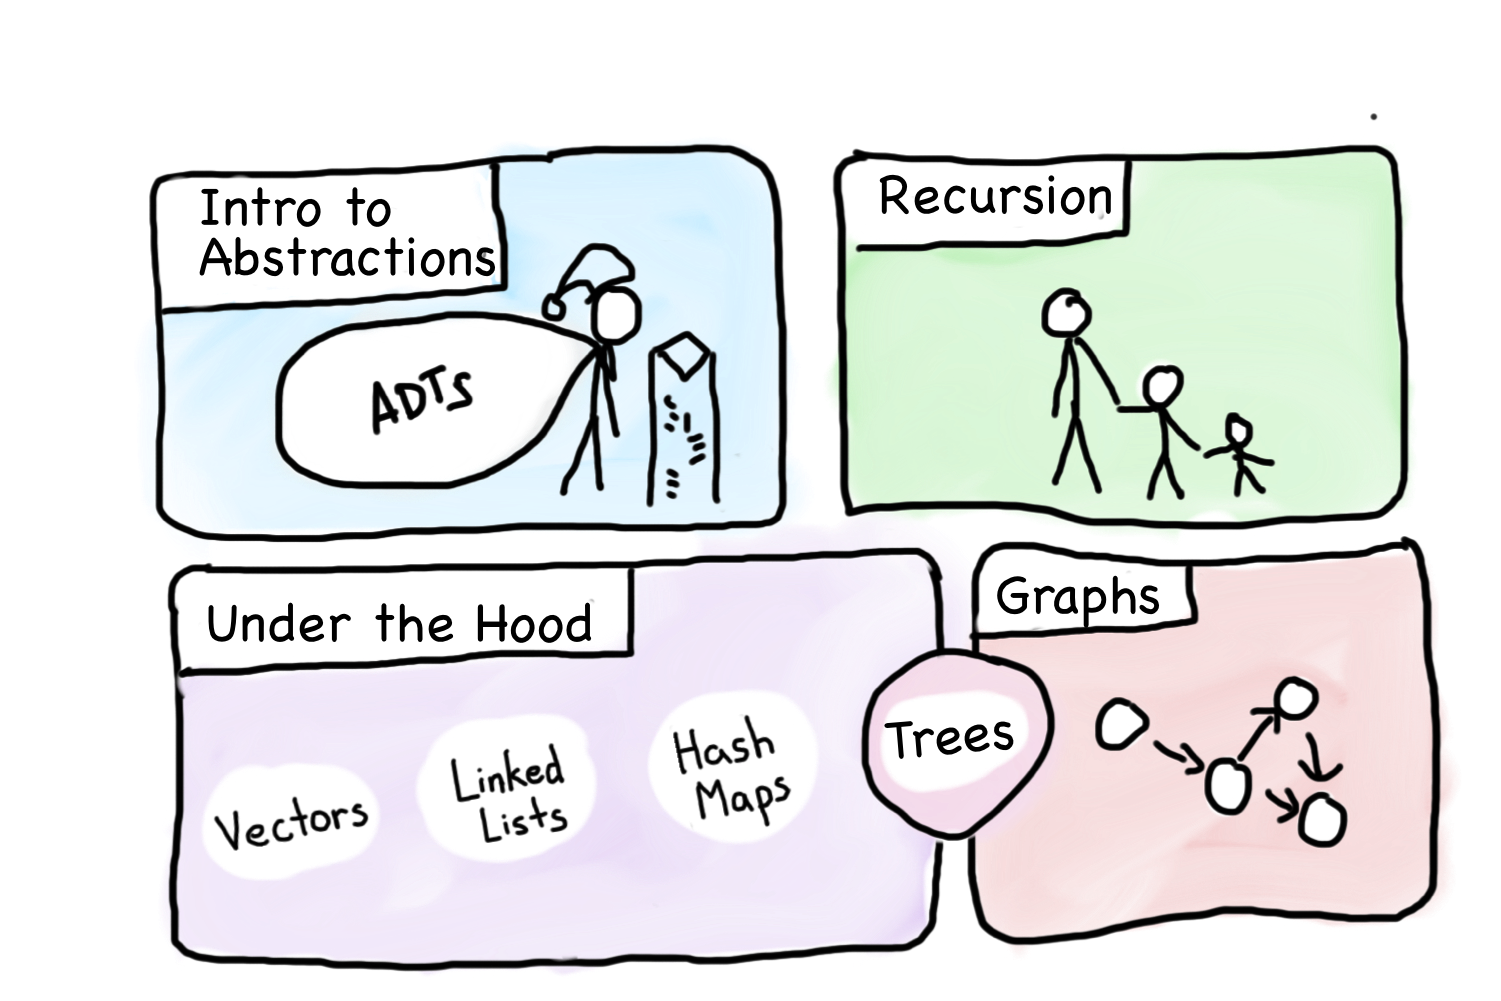
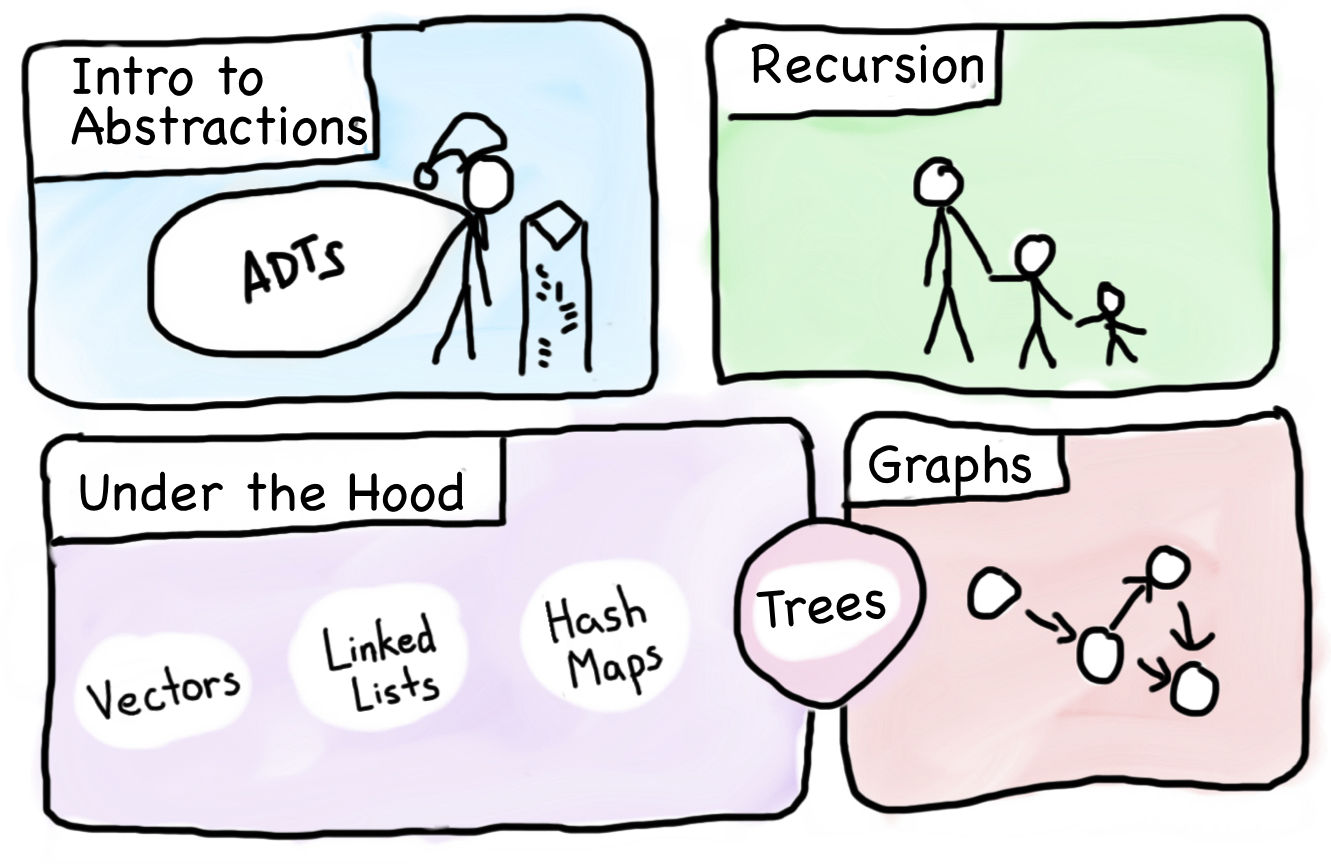
a

diff --git a/handouts/overview.html b/handouts/overview.html
@@ -85,14 +85,14 @@
 
 				</div>
 				<hr/>
+
+				<center>
+				<img style="width:600px" src="http://web.stanford.edu/class/archive/cs/cs106b/cs106b.1164img/overview/overview.png">	
+			</center>
 			</div>
 		</div>
 
-		<p>
-			<center>
-				<img style="width:500px" src="http://web.stanford.edu/class/archive/cs/cs106b/cs106b.1164img/overview/overview.png">	
-			</center>
-		</p>
+			
 
 		<div class="row">
 			<div class="col-sm-12">

diff --git a/templates/handouts/overview.html b/templates/handouts/overview.html
@@ -24,14 +24,14 @@
 
 				</div>
 				<hr/>
+
+				<center>
+				<img style="width:600px" src="{{pathToRoot}}img/overview/overview.png">	
+			</center>
 			</div>
 		</div>
 
-		<p>
-			<center>
-				<img style="width:500px" src="{{pathToRoot}}img/overview/overview.png">	
-			</center>
-		</p>
+			
 
 		<div class="row">
 			<div class="col-sm-12">
